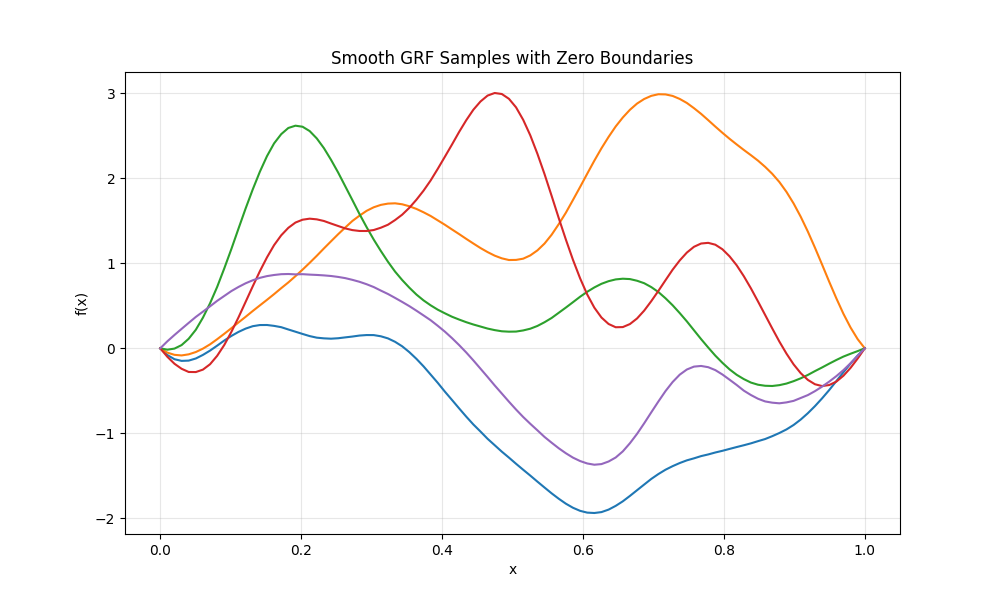
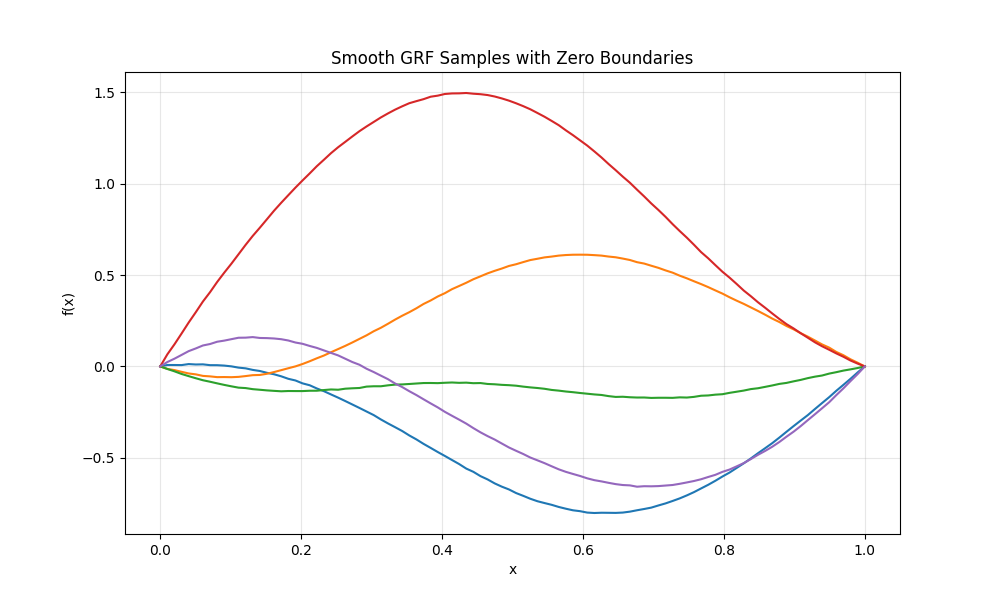
standardizing plotting

diff --git a/examples/heat1d/decentralized/data_utils.py b/examples/heat1d/decentralized/data_utils.py
@@ -60,7 +60,7 @@ if __name__ == "__main__":
     plt.figure(figsize=(10, 6))
     
     for k in keys:
-        x, y = generate_grf(k, n_points=100, length_scale=0.1)
+        x, y = generate_grf(k, n_points=100, length_scale=0.4)
         plt.plot(x, y)
         
     plt.title("Smooth GRF Samples with Zero Boundaries")
@@ -69,20 +69,4 @@ if __name__ == "__main__":
     plt.ylabel("f(x)")
     plt.savefig("grf_samples.png")
     print("Saved grf_samples.png")
-    
-    print("Generating GRF samples...")
-    key = jax.random.PRNGKey(42)
-    keys = jax.random.split(key, 5)
-    
-    plt.figure(figsize=(10, 6))
-    
-    for k in keys:
-        x, y = generate_grf(k, n_points=100, length_scale=0.15)
-        plt.plot(x, y)
-        
-    plt.title("Smooth GRF Samples with Zero Boundaries")
-    plt.grid(True, alpha=0.3)
-    plt.xlabel("x")
-    plt.ylabel("f(x)")
-    plt.savefig("grf_samples2.png")
-    print("Saved grf_samples2.png")
+
